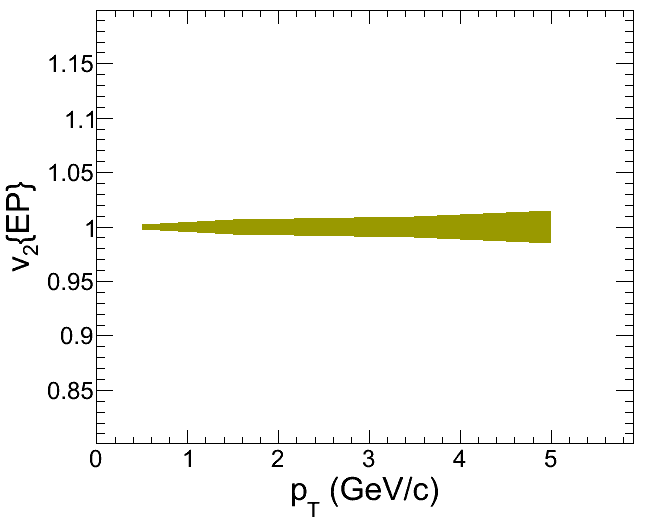
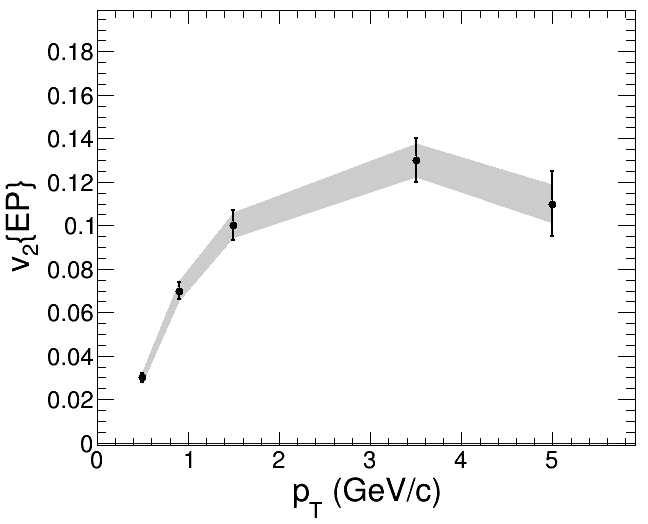
for Bran

diff --git a/eventplane/old2012/realData/forErrBand/plotTestSysBand.C b/eventplane/old2012/realData/forErrBand/plotTestSysBand.C
@@ -2,9 +2,9 @@ void plotTestSysBand()
 {
   const int nBin=5;
   double pt[nBin]={0.5, 0.9, 1.5, 3.5, 5};
-  //double v2[nBin]={0.03, 0.06, 0.08, 0.12, 0.1};
-  double v2[nBin]={1.0, 1.0, 1.0, 1., 1.0};
-  double v2e[nBin]={0.002, 0.004, 0.007, 0.01, 0.015};
+  double v2[nBin]={0.03, 0.07, 0.10, 0.13, 0.11};
+  double v2StatE[nBin]={0.002, 0.004, 0.007, 0.01, 0.015};
+  double v2SystE[nBin]={0.003, 0.005, 0.006, 0.008, 0.009};
 
   TCanvas *c1 = new TCanvas("c1","c1",1,1,650,550);
   c1->SetFillColor(10);
@@ -20,8 +20,8 @@ void plotTestSysBand()
   TH1D* hist = new TH1D("hist","",100,0.,5.9);
   hist->SetXTitle("p_{T} (GeV/c)");
   hist->SetYTitle("v_{2}{EP}");
-  hist->SetMinimum(0.801);
-  hist->SetMaximum(1.199);
+  hist->SetMinimum(-0.001);
+  hist->SetMaximum(0.199);
   hist->GetXaxis()->CenterTitle(1);
   hist->GetYaxis()->CenterTitle(1);
   hist->GetYaxis()->SetTitleOffset(1.1);
@@ -32,15 +32,18 @@ void plotTestSysBand()
   hist->GetYaxis()->SetLabelSize(0.05);
   hist->Draw();
 
-  TGraphErrors *graph = new TGraphErrors(nBin,pt,v2,0,v2e);
+  TGraphErrors *graphSys = new TGraphErrors(nBin,pt,v2,0,v2SystE);
+  graphSys->SetTitle("");
+  graphSys->SetFillColor(kGray);
+  graphSys->Draw("e3same");
+  TGraphErrors *graph = new TGraphErrors(nBin,pt,v2,0,v2StatE);
   graph->SetTitle("");
   graph->SetMarkerStyle(20);
   graph->SetMarkerSize(1.0);
   graph->SetMarkerColor(1);
   graph->SetLineWidth(2);
   graph->SetLineColor(1);
-  graph->SetFillColor(kYellow+2);
-  graph->Draw("e3same");
+  graph->Draw("pesame");
 
   c1->Print("v2byhand.png");
 
